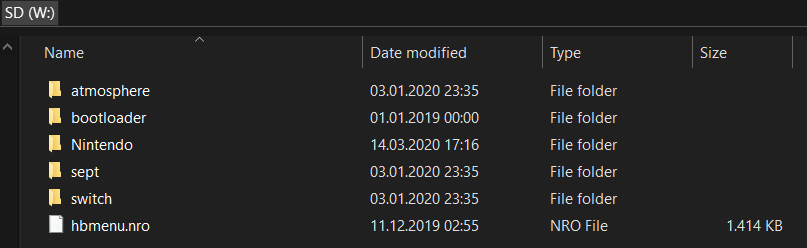
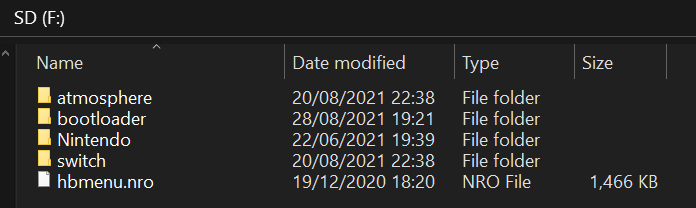
1.0.0 is here

diff --git a/docs/user_guide/emummc/making_emummc_fr.md b/docs/user_guide/emummc/making_emummc_fr.md
@@ -5,7 +5,7 @@
 ### Créer l'emuMMC
 
 !!!warning "Avant de commencer"
-    Avant de commencer, démarrez votre Switch normalement et supprimez tous les réseaux wifi. Vous pourrez de nouveau les ajouter à votre sysnand après avoir terminé ce guide.
+    Si vous ne prévoyez pas d'utiliser internet sur votre emuMMC, il est recommendé d'allumer votre Switch normalement et de supprimer tous les réseaux wifi. Vous pourrez de nouveau les ajouter à votre sysnand après avoir terminé ce guide.
 
 !!!tip ""
     1. Entrez en RCM et injectez le payload Hekate.
@@ -60,13 +60,12 @@
 !!!tip ""
     1. Entrez en RCM et injectez le payload Hekate
     2. Cliquez sur le bouton `Payloads` et lancez Lockpick_RCM.bin.
-    3. Si Lockpick_RCM vous demande de choisir entre SysNAND et emuMMC, choisissez SysNAND en naviguant avec les boutons de volume et en validant avec le bouton power. Si ce n’est pas le cas, continuez à l’étape 4.
-    4. Si Lockpick_RCM vous demande de `Reboot to Sept`, appuyez sur un bouton pour valider (volume ou power). Un logo "sept by Atmosphere" va apparaitre, suivit par le redémarrage de Lockpick_RCM. Si il ne vous le demande *pas*, continuer à l’étape 5.
-    5. Lockpick_RCM devrait maintenant vous informer que vos clés ont été sauvegardées dans `/switch/prod.keys` sur la carte SD.
-    6. Appuyez sur un bouton pour revenir au menu.
-    7. Allez sur `Power off` avec les boutons de volume et validez avec le bouton power.
-    8. Insérez votre carte SD dans votre PC.
-    9. Copiez le fichier `prod.keys` du dossier `switch` de votre carte SD card sur votre PC afin de le conserver précieusement. *Ne les supprimez pas de la carte SD !*
+    3. Si Lockpick_RCM vous demande de choisir entre SysNAND et EmuNAND, choisissez SysNAND en naviguant avec les boutons de volume et en validant avec le bouton power. Si ce n’est pas le cas, continuez à l’étape 4.
+    4. Lockpick_RCM devrait maintenant vous informer que vos clés ont été sauvegardées dans `/switch/prod.keys` sur la carte SD.
+    5. Appuyez sur un bouton pour revenir au menu.
+    6. Allez sur `Power off` avec les boutons de volume et validez avec le bouton power.
+    7. Insérez votre carte SD dans votre PC.
+    8. Copiez le fichier `prod.keys` du dossier `switch` de votre carte SD card sur votre PC afin de le conserver précieusement. *Ne les supprimez pas de la carte SD !*
 
 &nbsp;
 

diff --git a/docs/extras/alternate_bootsetups_fr.md b/docs/extras/alternate_bootsetups_fr.md
@@ -7,13 +7,13 @@ Si vous avez besoin de dépanner quelque chose, ou si vous voulez essayer une co
 
 &nbsp;
 
-### Chainload Fusee-primary depuis Hekate
+### Chainload Fusee depuis Hekate
 
 
 !!! tip "Ce dont vous aurez besoin"
     - La dernière version [d'Hekate](https://github.com/CTCaer/hekate/releases/)
     - La dernière version [d'Atmosphere](https://github.com/Atmosphere-NX/Atmosphere/releases) 
-        - Vous devez télécharger le dossier compressé zip et le payload  `fusee-primary.bin`
+        - Vous devez télécharger le dossier compressé zip et le payload  `fusee.bin`
     - <a href="../../files/extras/hekate_ipl.ini" download>hekate_ipl.ini</a>
 
 
@@ -22,7 +22,7 @@ Si vous avez besoin de dépanner quelque chose, ou si vous voulez essayer une co
 !!! tip ""
     1. Insérez votre carte SD dans votre PC
     2. Copiez *le contenu* de l'archive Atmosphère `.zip` à la racine de votre carte SD
-    3. Copiez le fichier `fusee-primary.bin` dans le dossier `atmosphere` de votre carte SD
+    3. Copiez le fichier `fusee.bin` dans le dossier `atmosphere` de votre carte SD
     4. copiez le dossier `bootloader` de l'archive Hekate `.zip` à la racine de votre carte SD
     5. Copiez le fichier `hekate_ipl.ini` dans le dossier `bootloader` de votre carte SD
     6. La préparation est terminée, vous pouvez maintenant démarrer sous un CFW en injectant le payload hekate_ctcaer `.bin` de l'archive Hekate
@@ -30,16 +30,16 @@ Si vous avez besoin de dépanner quelque chose, ou si vous voulez essayer une co
 
 &nbsp;
 
-### Fusee-primary sans Hekate
+### Fusee sans Hekate
 
 
 !!! tip "Ce dont vous aurez besoin"
     - La dernière version d'[Atmosphere](https://github.com/Atmosphere-NX/Atmosphere/releases) 
-        - Vous devez télécharger le dossier compressé zip et le payload  `fusee-primary.bin`
+        - Vous devez télécharger le dossier compressé zip et le payload  `fusee.bin`
     
 ### Instructions
 
 !!! tip ""
     1. Insérez votre carte SD dans votre PC
     2. Copiez *le contenu* de l'archive Atmosphère `.zip` à la racine de votre carte SD
-    3. La préparation est terminée, vous pouvez maintenant démarrer sous un CFW en injectant le payload `fusee-primary.bin`
+    3. La préparation est terminée, vous pouvez maintenant démarrer sous un CFW en injectant le payload `fusee.bin`

diff --git a/docs/extras/updating_fr.md b/docs/extras/updating_fr.md
@@ -8,6 +8,9 @@ Après avoir suivi notre guide, votre système sera composé de trois éléments
 
 Lors de la mise à jour d'Atmosphère assurez-vous de toujours **lire les changements apportés** (*certes en anglais mais faites un effort !*). Ils peuvent énumérer les modifications importantes apportées à votre système.
 
+!!! warning "Mettre à jour depuis une version d'Atmosphère inférieure à 1.0.0"
+    Si vous mettez à jour depuis une version d'Atmosphere inférieurs à 1.0.0, vous aurez quelques étapes supplémentaires à réaliser. Il vous faut supprimer le dossier `sept` de votre carte sd, supprimer le fichier `fusee-secondary.bin` dans votre dossier `atmosphere` et mettre à jour votre fichier de configuration de Hekate : <a href="../../files/emu/hekate_ipl.ini" download>hekate_ipl.ini</a> dans le dossier `bootloader`.
+
 Lorsqu’une nouvelle version d’Atmosphère sort, vous pouvez mettre à jour Atmosphère en suivant ces étapes :
 
 1. Éteignez votre Nintendo Switch et insérez votre carte SD dans votre ordinateur.
@@ -92,7 +95,7 @@ Si vous gardez votre emuMMC hors ligne, vous devrez utiliser une cartouche de je
 
 1. Assurez-vous que votre sysMMC est à jour. Si votre sysMMC n’est pas à jour, mettez-le à jour dans les paramètres de la console.
 2. Injectez `TegraExplorer.bin` (de la même façon que vous injectez n'importe quel payload, comme Hekate par exemple).
-3. En utilisant le stick et le bouton A, sélectionnez `Dump Firmware`.
+3. En utilisant le stick et le bouton A, sélectionnez `FirmwareDump.te`.
 4. Attendez environ 1-2 minutes pour que le processus copie votre firmware.
 5. Une fois terminé, appuyez sur n’importe quel bouton.
 6. Sélectionnez `Reboot to atmosphere/reboot_payload.bin`.

diff --git a/docs/user_guide/emummc/sd_preparation_fr.md b/docs/user_guide/emummc/sd_preparation_fr.md
@@ -2,7 +2,7 @@
 
 Nous allons maintenant placer les fichiers requis pour le CFW Atmosphère et quelques fichiers homebrew supplémentaires sur la carte SD.
 
-Atmosphère possède son propre bootloader (payload), appelé fusée (primary). Pour les besoins de ce guide, nous utiliserons Hekate à la place, afin que nous puissions récupérer la NAND (stockage interne) du système et profiter d’autres fonctionnalités avancées à l’avenir.
+Atmosphère possède son propre bootloader (payload), appelé fusée. Pour les besoins de ce guide, nous utiliserons Hekate à la place, afin que nous puissions récupérer la NAND (stockage interne) du système et profiter d’autres fonctionnalités avancées à l’avenir.
 
 &nbsp;
 
@@ -41,6 +41,9 @@ Atmosphère possède son propre bootloader (payload), appelé fusée (primary). 
     9. Copiez les fichiers `Checkpoint.nro`, `ftpd.nro`, `NX-Shell.nro` et `NxThemesInstaller.nro` dans le dossier `switch` sur votre carte SD.
     10. Si vous utilisiez déjà votre carte microSD comme périphérique de stockage pour vos jeux et que vous avez conservé votre dossier `Nintendo` avant de partitionner votre carte microSD, replacez le à la racine de votre carte microSD.
     11. Réinsérez votre carte SD dans votre Switch.
+
+    !!!danger "À propos du fichier emummc.txt"
+        Placer le fichier `emummc.txt` de ce guide dans `/atmosphere/hosts` empêchera votre emuMMC (emuNAND) de se connecter à Nintendo. Ne pas le faire entraînera probablement un banissement de la console.
 
     !!! tip ""
         Votre carte SD devrait ressembler à ça. Le dossier `Nintendo` n'est pas présent si vous n'avez jamais utilisé votre carte SD avec votre Switch.

diff --git a/docs/user_guide/sysnand/making_essential_backups_fr.md b/docs/user_guide/sysnand/making_essential_backups_fr.md
@@ -52,12 +52,11 @@
     1. Entrez en RCM et injectez le payload Hekate
     2. Cliquez sur le bouton `Payloads` et lancez Lockpick_RCM.bin.
     3. Si Lockpick_RCM vous demande de choisir entre SysNAND et emuMMC, choisissez SysNAND en naviguant avec les boutons de volume et en validant avec le bouton power. Si ce n’est pas le cas, continuez à l’étape 4.
-    4. Si Lockpick_RCM vous demande de `Reboot to Sept`, appuyez sur un bouton pour valider (volume ou power). Un logo "sept by Atmosphere" va apparaitre, suivit par le redémarrage de Lockpick_RCM. Si il ne vous le demande *pas*, continuer à l’étape 5.
-    5. Lockpick_RCM devrait maintenant vous informer que vos clés ont été sauvegardées dans `/switch/prod.keys` sur la carte SD.
-    6. Appuyez sur un bouton pour revenir au menu.
-    7. Allez sur `Power off` avec les boutons de volume et validez avec le bouton power.
-    8. Insérez votre carte SD dans votre PC.
-    9. Copiez le fichier `prod.keys` du dossier `switch` de votre carte SD card sur votre PC afin de le conserver précieusement. *Ne les supprimez pas de la carte SD !*
+    4. Lockpick_RCM devrait maintenant vous informer que vos clés ont été sauvegardées dans `/switch/prod.keys` sur la carte SD.
+    5. Appuyez sur un bouton pour revenir au menu.
+    6. Allez sur `Power off` avec les boutons de volume et validez avec le bouton power.
+    7. Insérez votre carte SD dans votre PC.
+    8. Copiez le fichier `prod.keys` du dossier `switch` de votre carte SD card sur votre PC afin de le conserver précieusement. *Ne les supprimez pas de la carte SD !*
 
 &nbsp;
 

diff --git a/docs/user_guide/emummc/launching_cfw_fr.md b/docs/user_guide/emummc/launching_cfw_fr.md
@@ -7,7 +7,7 @@ Contrairement à des systèmes tels que la DSi, la Wii, ou la 3DS, le CFW de la 
 &nbsp;
 
 !!!danger "Gardez l'emuMMC hors ligne quoi qu'il arrives"
-    Vous devez garder votre emuMMC (emunand) hors ligne (ou utiliser une méthode pour ne pas se connecter aux serveurs de Nintendo, comme 90dns) en toute situation. Ne pas le faire entraînera probablement un banissement de la console.
+    Votre  emuMMC (emuNAND) ne doit jamais se connecter à Nintendo. Pour jouer en ligne, utiliser l'eShop ou toute autre activité en ligne proposée par Nintendo, utilisez votre sysNAND. Utiliser à la fois votre emuMMC et votre sysNAND en ligne entraînera probablement un banissement de la console.
 
 ### Instructions
 
@@ -44,7 +44,7 @@ Vous pouvez désormais lancer le menu Homebrew en ouvrant l’album ou en tenant
 !!! tip ""
     - Checkpoint est un gestionnaire de fichiers de sauvegarde, il peut copier et restaurer les sauvegardes de votre système. Pour plus d’informations, voir [Gestion des sauvegardes](../../extras/save_management_fr.md).
 
-    - FTPD est un outil ftp pour connecter sans fil la carte sd de votre Switch à votre PC. Des outils comme Filezilla peuvent se connecter à votre Switch sur `(ip de la Switch):5000`.
+    - FTPD est un outil ftp pour connecter sans fil la carte sd de votre Switch à votre PC. Des outils comme WinSCP peuvent se connecter à votre Switch sur `(ip de la Switch):5000`.
 
     - NX-Shell est un explorateur de fichiers pour la Switch. Vous pouvez déplacer des fichiers, écouter des fichiers mp3, voir des images, etc.
 

diff --git a/docs/faq_fr.md b/docs/faq_fr.md
@@ -64,7 +64,7 @@
     Les mises à jour majeures de la Switch, ou mises à jour dans lesquelles une vulnérabilité système a été patchée, brûlent irréversiblement l’un des 64 « fusibles électroniques » de la Switch. 
     *Si jamais la Switch détecte qu’un plus grand nombre de fusibles électroniques ont été brûlés que ce qui était prévu prévu (ce qui signifie qu’un downgrade s’est produit), elle refusera de démarrer. Remplacer les fusibles électroniques n’est pas une option.*
     Vous pouvez trouver plus d’informations sur les fusibles <a href="https://switchbrew.org/wiki/Fuses#Anti-downgrade" target="_blank">ici</a>
-    Atmosphère 0.19.5 fonctionne très bien avec la nouvelle mise à jour du firmware 12.1.0 sur les unités non patchées. La situation des unités patchées est celle-ci :
+    Atmosphère 1.0.0 fonctionne très bien avec la nouvelle mise à jour du firmware 12.1.0 sur les unités non patchées. La situation des unités patchées est celle-ci :
 
     - **"Anciennes"** *Switch patchée (HAC-001) : Ne mettez PAS à jour au-delà de 7.0.1. Les consoles tournant sur 7.0.1 et moins finiront par obtenir un CFW. Les unités patchées qui sont au firmware 8.0.0 ou 8.0.1 recevront probablement des homebrews.*
 

diff --git a/docs/index.md b/docs/index.md
@@ -53,11 +53,10 @@ Un guide collaboratif de la communauté des "Helpers" et du "Staff" de Nintendo 
 
     Vous aurez besoin **de l’un** des éléments suivants afin de poursuivre avec ce guide :
 
-    - Un câble USB-A vers USB-C, et un PC
-    - Un câble USB-OTG, un câble USB-A vers USB-C et un appareil Android
-		- Cela ne fonctionne pas sur tous les téléphones Android
-    - Un câble USB-C, et un appareil Android avec un port USB-C
-    - Un adaptateur Lightning-OTG, un câble USB-A vers USB-C et un appareil iOS jailbreaké
+    - Un PC et un câble USB capable de transférer des données entre votre Switch et votre PC
+    - Un appareil Android et un câble USB capable de transférer des données entre votre Switch et votre appareil Android
+    	- Cela ne fonctionne pas sur tous les téléphones Android
+    - Un adaptateur Lightning-OTG, un appareil iOS jailbreaké et un câble USB capable de transférer des données entre votre Switch et l'adaptateur
         - Cette méthode n’est pas présentée dans ce guide, mais vous pouvez en savoir plus à ce sujet sur [ce site](https://mologie.github.io/nxboot/)
 
 

diff --git a/docs/extras/dumping_title_keys_fr.md b/docs/extras/dumping_title_keys_fr.md
@@ -18,6 +18,5 @@ Cette section est pour récupérer vos title keys.
 !!! tip ""
     1. Entrez en RCM et injectez le payload Hekate.
     2. Appuyez sur `Payloads` et lancez Lockpick_RCM.bin.
-    3. Si Lockpick_RCM vous demande de choisir entre SysNAND et emuMMC, choisissez SysNAND en naviguant avec les boutons de volume et en validant avec le bouton power. Si ce n’est pas le cas, continuez à l’étape 4.
-    4. Si Lockpick_RCM vous demande de `Reboot to Sept`, appuyez sur un bouton pour valider (volume ou power). Un logo "sept by Atmosphere" va apparaitre, suivit par le redémarrage de Lockpick_RCM. Si il ne vous le demande *pas*, continuer à l’étape 5.
-    5. Lockpick_RCM devrait maintenant vous informer que vos clés ont été sauvegardées dans `/switch/prod.keys` sur la carte SD.
+    3. Si Lockpick_RCM vous demande de choisir entre SysNAND et EmuNAND, choisissez SysNAND en naviguant avec les boutons de volume et en validant avec le bouton power.
+    5. Lockpick_RCM devrait maintenant vous informer que vos clés ont été sauvegardées dans `/switch/title.keys` sur la carte SD.

diff --git a/docs/user_guide/sysnand/launching_cfw_fr.md b/docs/user_guide/sysnand/launching_cfw_fr.md
@@ -40,7 +40,7 @@ Vous pouvez désormais lancer le menu Homebrew en ouvrant l’album ou en tenant
 !!! tip ""
     - Checkpoint est un gestionnaire de fichiers de sauvegarde, il peut copier et restaurer les sauvegardes de votre système. Pour plus d’informations, voir [Gestion des sauvegardes](../../extras/save_management_fr.md).
 
-    - FTPD est un outil ftp pour connecter sans fil la carte sd de votre Switch à votre PC. Des outils comme Filezilla peuvent se connecter à votre Switch sur `(ip de la Switch):5000`.
+    - FTPD est un outil ftp pour connecter sans fil la carte sd de votre Switch à votre PC. Des outils comme WinSCP peuvent se connecter à votre Switch sur `(ip de la Switch):5000`.
 
     - NX-Shell est un explorateur de fichiers pour la Switch. Vous pouvez déplacer des fichiers, écouter des fichiers mp3, voir des images, etc.
 

diff --git a/docs/extras/glossary_fr.md b/docs/extras/glossary_fr.md
@@ -38,6 +38,6 @@ Les termes sont rangés par ordre alphabétique
 
 Les ressources ci-dessous sont pour les utilisateurs et les développeurs intéressés par le développement Homebrew ou pour ceux qui veulent obtenir une compréhension plus technique des différents concepts.
 
-- La [FAQ ReSwitched](https://reswitched.team/faq/) donne un aperçu général du fonctionnement de la Switch.
+- La [FAQ ReSwitched](https://reswitched.github.io/faq/) donne un aperçu général du fonctionnement de la Switch.
 - [Switchbrew](https://switchbrew.org) est un wiki détaillant le fonctionnement interne du firmware de la Nintendo Switch.
 - [documentation libNX](https://switchbrew.github.io/libnx/index.html). LibNX est la bibliothèque utilisée pour développer Homebrew sur la Nintendo Switch.

diff --git a/docs/user_guide/sysnand/sd_preparation_fr.md b/docs/user_guide/sysnand/sd_preparation_fr.md
@@ -2,7 +2,7 @@
 
 Nous allons maintenant placer les fichiers requis pour le CFW Atmosphère et quelques fichiers homebrew supplémentaires sur la carte SD.
 
-Atmosphère possède son propre bootloader (payload), appelé fusée (primary). Pour les besoins de ce guide, nous utiliserons Hekate à la place, afin que nous puissions récupérer la NAND (stockage interne) du système et profiter d’autres fonctionnalités avancées à l’avenir.
+Atmosphère possède son propre bootloader (payload), appelé fusée. Pour les besoins de ce guide, nous utiliserons Hekate à la place, afin que nous puissions récupérer la NAND (stockage interne) du système et profiter d’autres fonctionnalités avancées à l’avenir.
 
 &nbsp;
 
